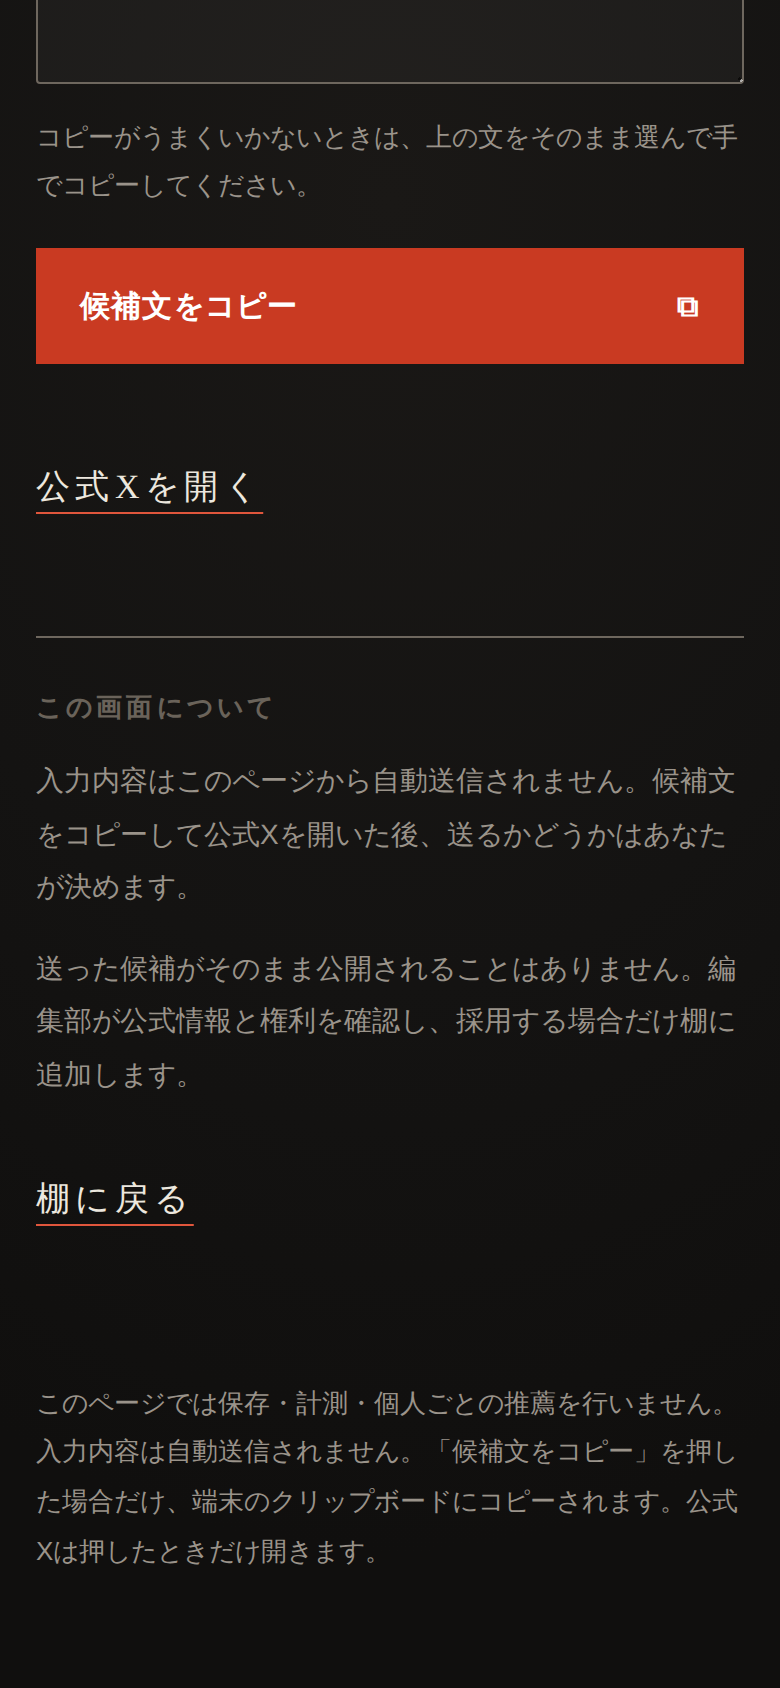
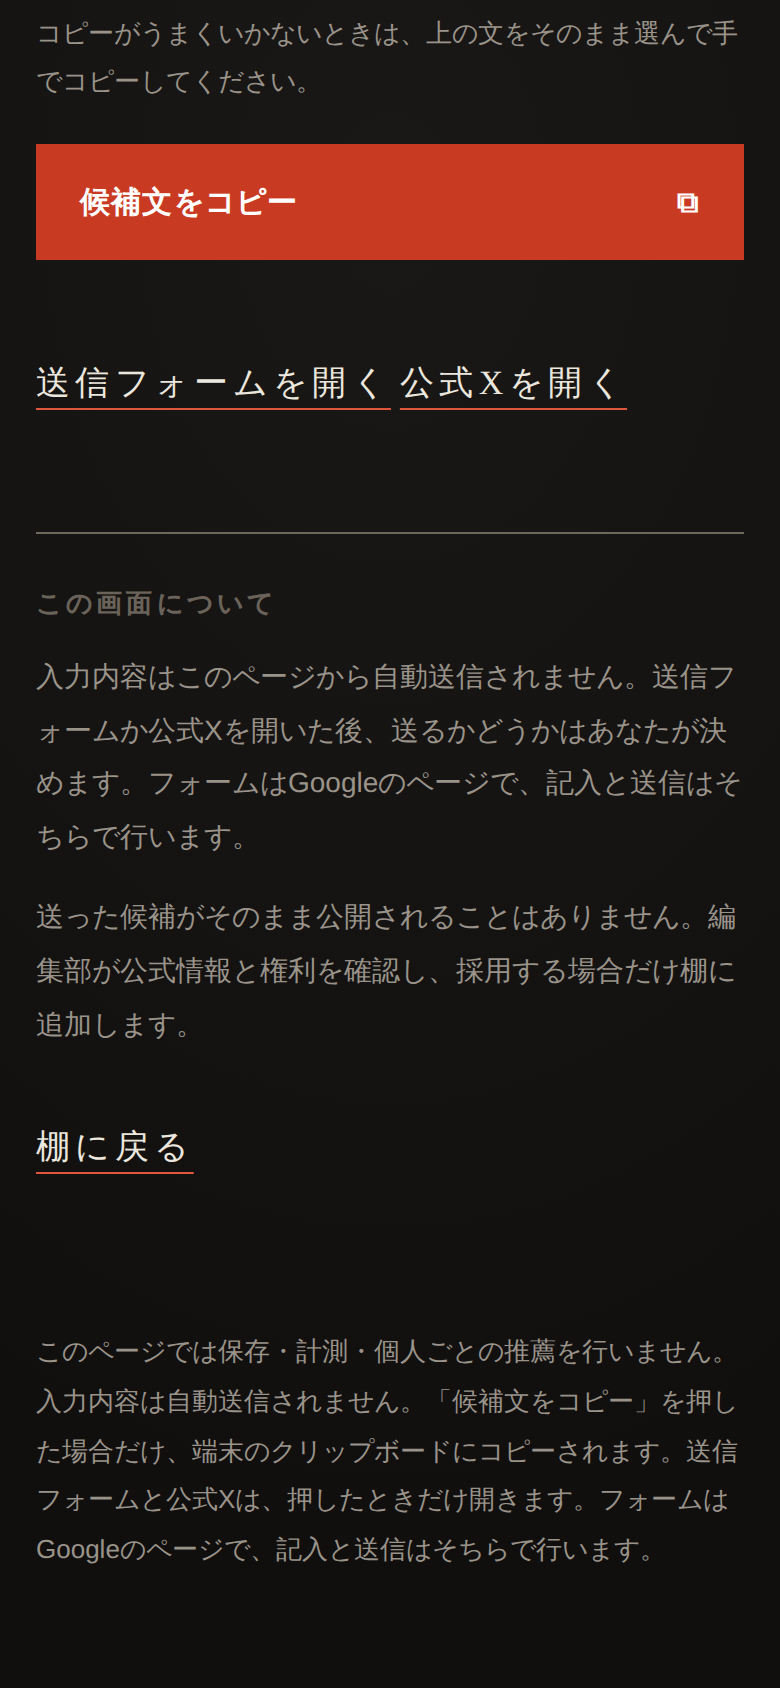
feat(release-01): 候補の送信フォームへの導線を置く
Founder が Google フォームを作成したので、suggest.html に「送信フォームを
開く」を追加した。送信は Google のページ側で起き、このページ自体は引き続き
何も送らない。すでに監査を通っている公式Xのリンクと同じ構造。

受け取ったのは編集用の /edit URL だったので、閲覧用の /viewform に直した。
/edit を公開ページに貼ると、訪問者がフォームそのものを書き換えられる。

開示文は、元の約束を1つも弱めず、行き先が増えたことだけを足した:
「送信フォームと公式Xは、押したときだけ開きます。フォームはGoogleのページで、
記入と送信はそちらで行います。」

prefill はしない。入力済みの文字を query に載せると、押した瞬間に外部へ渡る
ことになり、「押したときだけ開きます」で説明できる範囲を越える。

guard:
- Google フォームの link は1つだけ
- /edit を含む URL は FAIL
- query 付き（prefill）は FAIL
- 開示文は新しい全文で一致を要求

負のテスト: /edit・query 付き・link 削除の3通りで release_check が
それぞれ正しく FAIL することを確認した。

Drive connector の scope に Forms が無く、この URL が匿名の訪問者にどう
見えるかは Claude 側から確認できない。シークレットウィンドウでの確認が
必要で、その手順と代替 URL の入手方法を SUGGESTION_INTAKE.md に書いた。

release_check GO / browser_qa 560/560 / expiry_boundaries GO / preflight GO /
link_check は20件すべて NOT OBSERVABLE（proxy 遮断のため未観測）。

保存・製本・本棚・GA4 に変更なし。外部通信は、押したときだけ開く link を
1つ追加（ページからの自動送信は引き続きゼロ）。

Claude-Session: https://claude.ai/code/session_018poV34fXL7Au8c8NUFyCym

diff --git a/v3-prototype/release-01/qa/release_check.js b/v3-prototype/release-01/qa/release_check.js
@@ -176,11 +176,29 @@ if (/enctype|<form[^>]*action=|method="post"/i.test(suggest)) failures.push('sug
 if (!suggest.includes('https://x.com/emotion_books')) failures.push('suggest.html: exact X destination missing');
 if ((suggest.match(/x\.com/g) || []).length !== 1) failures.push('suggest.html: exactly one X destination expected');
 if (/x\.com\/[^"']*[?&]/.test(suggest)) failures.push('suggest.html: X destination must carry no query');
+/* 候補の受け取りは Google フォームへ出る link で行う。送信は Google の
+   ページ側で起きるので、このページ自体は引き続き何も送らない。
+   guard するのは「編集用 URL を公開しないこと」。/edit を貼ると訪問者が
+   フォームそのものを書き換えられるので、これは体裁ではなく事故になる。 */
+const formLinks = suggest.match(/https:\/\/docs\.google\.com\/forms\/[^"']+/g) || [];
+if (formLinks.length !== 1) {
+  failures.push(`suggest.html: expected exactly one Google form link (found ${formLinks.length})`);
+}
+for (const link of formLinks) {
+  if (/\/edit\b/.test(link)) {
+    failures.push('suggest.html: form link must not be an editor URL (/edit)');
+  }
+  /* prefill をやめている以上、query が付いていたら入力が外へ載っている疑い。 */
+  if (/[?&]/.test(link)) {
+    failures.push('suggest.html: form link must carry no query (no prefill)');
+  }
+}
 for (const notice of [
   '入力内容はこのページから自動送信されません。',
   '送った候補がそのまま公開されることはありません。',
-  // コピーが端末のクリップボードへ書くことを言い落とさない。
-  'このページでは保存・計測・個人ごとの推薦を行いません。入力内容は自動送信されません。「候補文をコピー」を押した場合だけ、端末のクリップボードにコピーされます。公式Xは押したときだけ開きます。'
+  // コピーが端末のクリップボードへ書くことと、フォームが外部であることを
+  // どちらも言い落とさない。
+  'このページでは保存・計測・個人ごとの推薦を行いません。入力内容は自動送信されません。「候補文をコピー」を押した場合だけ、端末のクリップボードにコピーされます。送信フォームと公式Xは、押したときだけ開きます。フォームはGoogleのページで、記入と送信はそちらで行います。'
 ]) {
   if (!suggest.includes(notice)) failures.push(`suggest.html: required notice missing (${notice.slice(0, 12)}…)`);
 }

diff --git a/v3-prototype/release-01/suggest.html b/v3-prototype/release-01/suggest.html
@@ -69,6 +69,12 @@
         </p>
         <p id="sg-copy-status" class="copy-status" role="status" aria-live="polite"></p>
         <p class="suggest-actions suggest-actions-secondary">
+          <!-- 送信は Google のページ側で起きる。このページは何も送らない。
+               prefill はしない。入力済みの文字を query に載せると、押した瞬間に
+               外部へ渡ることになり、開示文の意味が変わる。 -->
+          <a id="sg-form" class="other-shelves"
+             href="https://docs.google.com/forms/d/1ncxcjjRQ5P827alF1KczWxHRJlmPi881e44lD2EkNhQ/viewform"
+             target="_blank" rel="noopener noreferrer" referrerpolicy="no-referrer">送信フォームを開く</a>
           <a id="sg-x" class="other-shelves" href="https://x.com/emotion_books"
              target="_blank" rel="noopener noreferrer" referrerpolicy="no-referrer">公式Xを開く</a>
         </p>
@@ -76,7 +82,7 @@
 
       <section class="suggest-terms" aria-labelledby="terms-title">
         <h2 id="terms-title" class="rights-title">この画面について</h2>
-        <p>入力内容はこのページから自動送信されません。候補文をコピーして公式Xを開いた後、送るかどうかはあなたが決めます。</p>
+        <p>入力内容はこのページから自動送信されません。送信フォームか公式Xを開いた後、送るかどうかはあなたが決めます。フォームはGoogleのページで、記入と送信はそちらで行います。</p>
         <p>送った候補がそのまま公開されることはありません。編集部が公式情報と権利を確認し、採用する場合だけ棚に追加します。</p>
       </section>
 
@@ -85,7 +91,7 @@
   </main>
 
   <footer class="site-footer">
-    <p class="privacy-note">このページでは保存・計測・個人ごとの推薦を行いません。入力内容は自動送信されません。「候補文をコピー」を押した場合だけ、端末のクリップボードにコピーされます。公式Xは押したときだけ開きます。</p>
+    <p class="privacy-note">このページでは保存・計測・個人ごとの推薦を行いません。入力内容は自動送信されません。「候補文をコピー」を押した場合だけ、端末のクリップボードにコピーされます。送信フォームと公式Xは、押したときだけ開きます。フォームはGoogleのページで、記入と送信はそちらで行います。</p>
   </footer>
 
   <div id="live" class="sr-only" role="status" aria-live="polite"></div>

diff --git a/v3-prototype/release-01/qa/SUGGESTION_INTAKE.md b/v3-prototype/release-01/qa/SUGGESTION_INTAKE.md
@@ -32,12 +32,31 @@ backend や第三者フォームサービスを置く案は採らない。secret
 ページの性格そのものが変わり、`YOU MUST NOT add external data transmission`
 の趣旨からも遠い。
 
-## Founder にやってもらうこと（1回だけ）
+## 現在の状態（2026-08-29）
+
+フォームは作成済み。`suggest.html` に「送信フォームを開く」を追加し、開示文も
+差し替えた。貼っている URL はこれ。
+
+```
+https://docs.google.com/forms/d/1ncxcjjRQ5P827alF1KczWxHRJlmPi881e44lD2EkNhQ/viewform
+```
+
+Founder からは編集用の `/edit` URL を受け取ったが、それを公開ページに貼ると
+訪問者がフォームそのものを書き換えられるので、閲覧用の `/viewform` に直した。
+`release_check.js` が `/edit` と query 付きを FAIL にする guard を持っている。
+
+Drive connector の scope に Forms が入っておらず、この URL が匿名の訪問者に
+どう見えるかを Claude 側から確認できない。**Founder がログアウト状態か
+シークレットウィンドウで一度開いて確認すること。** 「権限が必要です」と出る
+場合は、フォーム編集画面の「送信」→ リンクアイコンで出る
+`https://docs.google.com/forms/d/e/1FAIpQLS…/viewform` に差し替える。
+直すのは `suggest.html` のこの1行だけ。
+
+## Founder にやってもらうこと
 
 Claude は Drive API から Google フォームを作れない。ここだけ人の手が要る。
 
-1. Google フォームを新規作成する。タイトルは「みんなの感情書店｜候補を教える」
-2. 設問を4つ、いまの `suggest.html` と同じ並び・同じ必須条件で作る
+1. 設問を4つ、いまの `suggest.html` と同じ並び・同じ必須条件で作る
 
    | 設問 | 種類 | 必須 |
    |---|---|---|
@@ -46,22 +65,18 @@ Claude は Drive API から Google フォームを作れない。ここだけ人
    | 種類 | プルダウン（飲食・喫茶／体験・おでかけ／本・古書／音楽・ライブ／映画・演劇） | 任意 |
    | ひとこと（200字まで） | 段落 | 任意 |
 
-3. フォームの設定で、**メールアドレスの収集をオフ**にする。
+2. フォームの設定で、**メールアドレスの収集をオフ**にする。
    誰が送ったかは要らない。集めない情報は漏れない。
-4. 回答をスプレッドシートにリンクする
-5. そのスプレッドシートを、この Drive フォルダへ移動する
+   「回答を1回に制限する」もオフ（ログインを強制しないため）。
+3. 回答をスプレッドシートにリンクする
+4. そのスプレッドシートを、この Drive フォルダへ移動する
 
    `03_EDITORIAL_CONTENT_棚と作品 / 候補の受け取り_SUGGESTIONS`
    https://drive.google.com/drive/folders/19u7ywNUNfh-0I3eimsIUyLq-WTWqQeYx
 
-6. 公開用のフォーム URL を Claude に渡す
+5. シークレットウィンドウでフォーム URL を開き、記入できることを確認する
 
-## 6 を受け取ったあとに Claude がやること
-
-`suggest.html` に「フォームで送る」のリンクを足し、開示文を差し替える。
-`qa/release_check.js` の文言 guard も同時に更新する（片方だけ直すと落ちる）。
-
-差し替え後の開示文（案）:
+## 適用済みの開示文
 
 > このページでは保存・計測・個人ごとの推薦を行いません。入力内容は自動送信
 > されません。「候補文をコピー」を押した場合だけ、端末のクリップボードに
@@ -70,6 +85,13 @@ Claude は Drive API から Google フォームを作れない。ここだけ人
 
 元の約束を1つも弱めず、行き先が増えたことだけを足している。
 文言確定は独立監査の担当なので、codex 復帰後に確認を通す。
+
+## prefill はしていない
+
+フォームは空で開く。入力済みの文字を query に載せて渡す prefill は、押した
+瞬間に文字が外部へ渡ることを意味し、「押したときだけ開きます」で説明できる
+範囲を越える。二度書きの手間より、説明できることを優先した。
+`release_check.js` が query 付きの form link を FAIL にする。
 
 ## 毎週やること
 
